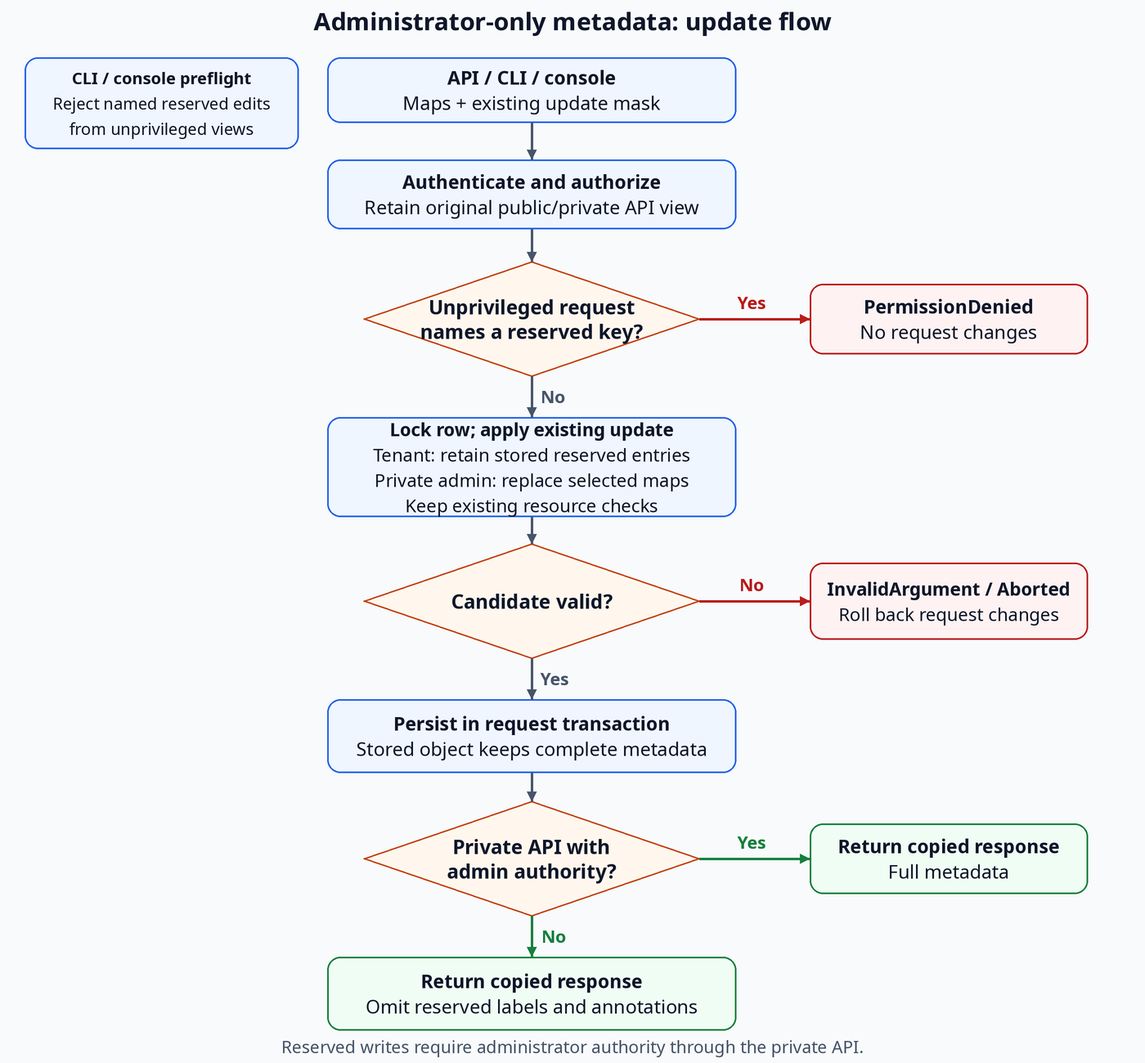
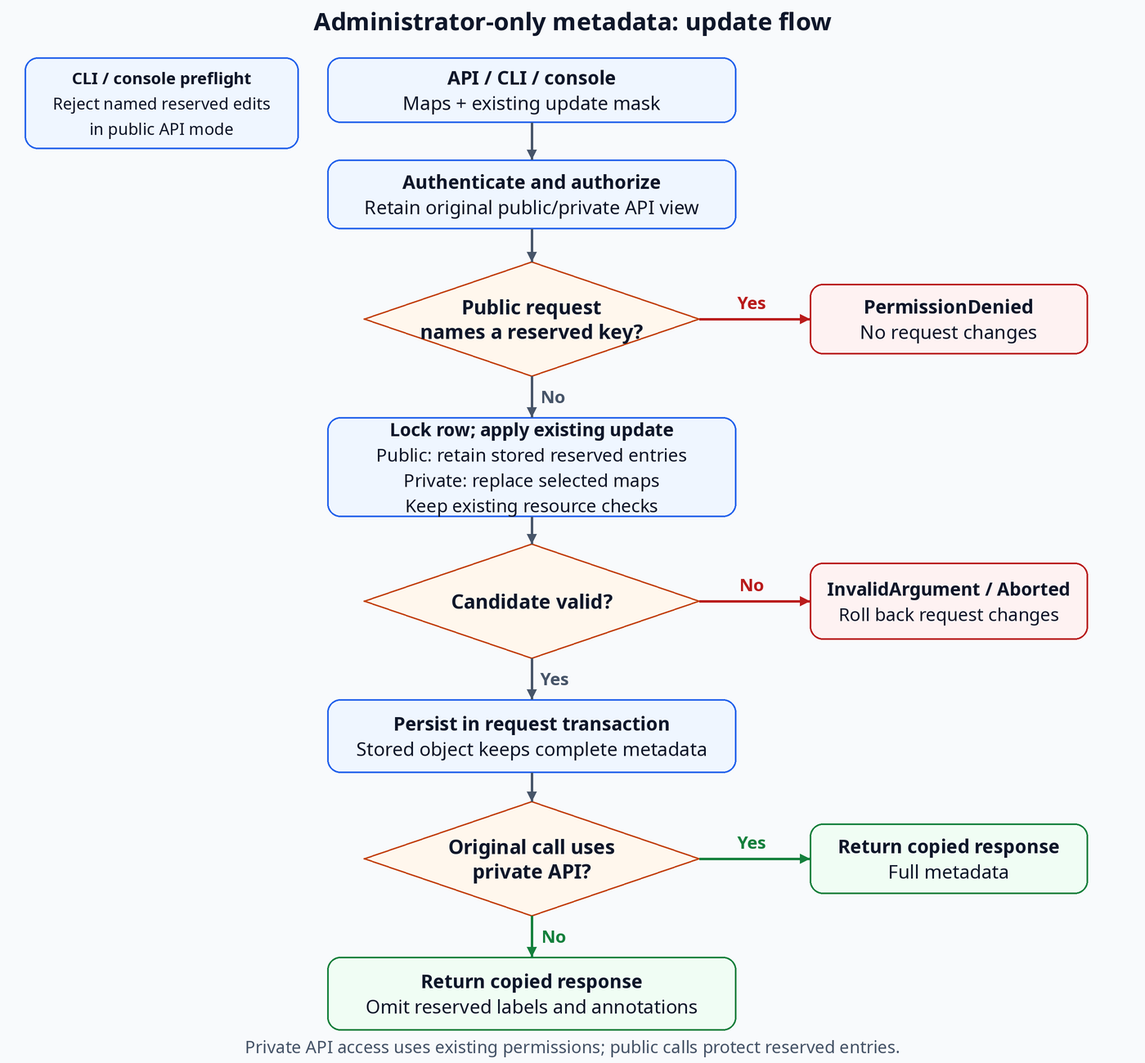
OSAC-6204: Keep authorization and private metadata behavior unchanged
Assisted-by: Codex <noreply@openai.com>

diff --git a/enhancements/OSAC-6204-support-administrator-only-labels-and-annotations/testplan.md b/enhancements/OSAC-6204-support-administrator-only-labels-and-annotations/testplan.md
@@ -19,7 +19,7 @@ The PRD uses In Scope bullets rather than FR/NFR identifiers. IS-1 through IS-5 
 | IS-4 | Ordinary metadata keeps its existing behavior | TC-IS4-01–05 | IC-1, IC-2, IC-3, IC-4, IC-5, IC-6, IC-8, IC-9 |
 | IS-5 | Document exact reserved prefix and matching behavior | TC-IS5-01–02 | IC-1, IC-10 |
 
-Under confirmed D6, tenant map omission always preserves stored reserved entries. Named forbidden CLI/console operations fail locally before any Update; supplied reserved entries and accepted explicit protected mask paths fail on the server. A whole-map request cannot reveal a removal target that a client has already discarded.
+Under confirmed D6, public map omission always preserves stored reserved entries. Named forbidden public CLI/console operations fail locally before any Update; supplied reserved entries and accepted explicit protected mask paths fail on the public server. A whole-map request cannot reveal a removal target that a client has already discarded. Private API calls retain existing complete-map behavior under existing authorization, with no new metadata role check.
 
 Request locking remains optional: `lock` omitted/false skips the version comparison; `lock=true` checks the supplied version. Reserved-key protection applies to both modes. Database row locking and transaction atomicity remain in use in either mode.
 
@@ -29,7 +29,7 @@ Retired IDs: TC-IS1-07 and TC-IS3-07. Existing case IDs are not reused.
 
 ## Shared fixtures and oracles
 
-Use two accounts representing Cloud Provider Admin and Cloud Infrastructure Admin with the existing platform-admin authorization, plus Tenant Admin and Tenant User accounts with their existing roles. No new persona roles or account-provisioning workflow are needed. Include a second tenant for isolation controls and the existing restricted private CSI identity. A role display string alone is not authority. Both admin personas must pass the same matrix; tenant cases run as both tenant personas where the method is authorized for ordinary use.
+Use two accounts representing Cloud Provider Admin and Cloud Infrastructure Admin with the existing platform-admin authorization, plus Tenant Admin and Tenant User accounts with their existing roles. No new persona roles or account-provisioning workflow are needed. Include a second tenant for isolation controls and the existing restricted private CSI identity. Preserve existing method/object authorization for each account; metadata rules depend on the API view. Both admin personas must pass the same matrix; public tenant cases run as both tenant personas where the method is authorized for ordinary use.
 
 Seed valid stored dependencies for every object type. Use ordinary keys such as `example.org/environment` and reserved keys such as `admin.osac.openshift.io/tracking-id` in both maps, with unique marker values to detect disclosure. Include empty strings, multiple entries, and objects without protected entries. Do not rely on external provider provisioning to test a metadata edit; explicitly record seeded lifecycle/readiness states and the fact that no provider provisioning boundary is exercised.
 
@@ -216,7 +216,7 @@ Both administrators can sign in to the deployed console. Valid fixtures exist fo
 - Editors display complete private maps and submit their edited replacements using existing update options, with no mandatory version checking. Untouched entries and unselected maps/fields remain intact.
 - Connect/proxy/API persistence and existing detail-page links reach the same shared editor.
 
-#### TC-IS1-08: Administrator authority comes from the evaluated OPA decision
+#### TC-IS1-08: Existing authorization and original API view define behavior
 
 | Interface Change | Priority | Automation |
 |---|---|---|
@@ -226,20 +226,20 @@ Both administrators can sign in to the deployed console. Valid fixtures exist fo
 
 ##### Preconditions
 
-Accounts represent both administrators, Tenant Admin, Tenant User, and the restricted private CSI client. OPA decision fixtures include true, false, and absent is_admin.
+Accounts represent both administrators, Tenant Admin, Tenant User, and the restricted private CSI client. Record their existing allowed methods, object scope, and tenant visibility as the baseline.
 
 ##### Steps
 
-1. Evaluate the supported persona/group mapping and copy the explicit is_admin result into Subject.
-2. Exercise private reserved reads/writes for each account. For both administrator accounts, repeat a public read and submit reserved Create/Update input where those public methods exist.
-3. Give a fixture broad tenant visibility without administrator authority and repeat the private metadata read.
+1. Exercise allowed and disallowed private methods for each account and compare authorization with the baseline.
+2. For both administrator accounts, read and edit reserved entries through allowed private methods; repeat reads and reserved Create/Update input through corresponding public methods where they exist.
+3. Verify the original public view survives in-process delegation to private handlers. Read a Volume through an allowed private CSI method as a control.
 
 ##### Expected Results
 
-- Both supported administrators receive the same reviewed reserved-metadata authority. False or missing is_admin defaults to no authority.
-- Tenant roles and CSI universal-tenant visibility do not become administrator authority. Public administrator calls still receive the tenant metadata projection.
-- Public reserved Create/Update requests from either administrator return PermissionDenied and apply no changes or side effects. Administrator authority never bypasses the public API's reserved-key restriction.
-- Private RPC access continues to require the existing method/object authorization independently of metadata projection.
+- Existing method/object and tenant/project authorization is unchanged for every account. Both administrator personas keep the same existing private access; tenant identities gain no private methods.
+- Authorized private calls retain complete metadata, including allowed CSI Volume reads. No new is_admin decision or Subject field is required.
+- Public calls return the same filtered view for every caller, including administrators, even when a public handler delegates to private code.
+- Public reserved Create/Update requests from either administrator return PermissionDenied and apply no changes or side effects. Private method access never bypasses a public call's reserved-key restriction.
 
 #### TC-IS1-09: Optional version checks retain existing update semantics
 
@@ -269,7 +269,7 @@ An administrator reads a complete map at version v; a second authorized update c
 
 ### IS-2: Tenant visibility
 
-#### TC-IS2-01: Every external object response omits reserved entries
+#### TC-IS2-01: Every public object response omits reserved entries
 
 | Interface Change | Priority | Automation |
 |---|---|---|
@@ -279,19 +279,19 @@ An administrator reads a complete map at version v; a second authorized update c
 
 ##### Preconditions
 
-For each public metadata-bearing type, seed both maps with ordinary and reserved entries. Also seed nested Metadata and unprivileged private-service fixtures.
+For each public metadata-bearing type, seed both maps with ordinary and reserved entries. Include nested Metadata and authorized private-service controls.
 
 ##### Steps
 
 1. Get and List as both tenant personas; perform allowed ordinary Create/Update that returns an object containing stored reserved metadata.
 2. Repeat public reads with administrator credentials and inspect nested response objects.
-3. Compare external responses against the authorized private source and inspect whether projection mutated that source.
+3. Compare public responses with authorized private responses and the stored source; inspect whether projection mutated that source.
 
 ##### Expected Results
 
-- No reserved key or value appears in public or unprivileged private object responses; ordinary entries, authorized resource scope, and versions retain their established shape.
+- No reserved key or value appears in public object responses; ordinary entries, authorized resource scope, and versions retain their established shape.
 - Administrators using public RPCs get the same projection. Nested actual Metadata messages are projected recursively, while unrelated payload maps are unchanged.
-- Projection uses detached responses; stored and in-process administrator objects retain their full maps.
+- Projection uses detached responses; private responses, stored objects, and in-process private objects retain their full maps under existing authorization.
 
 #### TC-IS2-02: Event payload and filter projection preserve privacy
 
@@ -303,17 +303,17 @@ For each public metadata-bearing type, seed both maps with ordinary and reserved
 
 ##### Preconditions
 
-Real Kafka-backed EventsServer coverage is available. Tenant watches are ready before publication; seed an object with both map kinds and register an admin private watcher.
+Real Kafka-backed EventsServer coverage is available. Public watches are ready before publication; seed an object with both map kinds and register a watcher with existing private Watch permission.
 
 ##### Steps
 
 1. Publish a create/update event containing reserved entries, nested Metadata, and a known ordinary filter match.
-2. Consume through public tenant and private administrator watches; compare event identifiers, timestamps, and visible entries.
+2. Consume through public tenant, public administrator, and authorized private watches; compare event identifiers, timestamps, and visible entries.
 3. Change a reserved value without changing ordinary matching entries and repeat; allow at most 30 seconds after publication in the test harness.
 
 ##### Expected Results
 
-- Tenant events omit reserved entries before the tenant event filter runs; authorized private administrator events retain them.
+- All public events omit reserved entries before the public event filter runs; authorized private events retain them under existing permissions.
 - Ordinary matching behavior, identifiers, and timestamps remain unchanged. No stored or publisher object is mutated by projection.
 - The 30-second bound is a bounded test wait, not a new product delivery SLA; publication/subscription readiness failures are diagnosed separately.
 
@@ -364,7 +364,7 @@ Tenant Admin and Tenant User sessions have access to objects with unique reserve
 - Reserved keys and marker values are absent from tenant API/Connect response bodies, UI display/search results, and CLI structured/human output.
 - Ordinary search and display behavior remains consistent with the existing authorized public view. Hiding a field in the frontend alone does not satisfy this case.
 
-#### TC-IS2-05: Restricted private clients remain unprivileged metadata readers
+#### TC-IS2-05: Private clients keep existing metadata access and method restrictions
 
 | Interface Change | Priority | Automation |
 |---|---|---|
@@ -374,18 +374,18 @@ Tenant Admin and Tenant User sessions have access to objects with unique reserve
 
 ##### Preconditions
 
-The existing CSI identity has its documented restricted method access and universal tenant visibility; fixtures span two tenants.
+The existing CSI identity has universal tenant visibility and private Volume Create/Get/Delete/List permission, without Update. Seed valid Volume dependencies and fixtures across two tenants.
 
 ##### Steps
 
-1. Read an object using a private method allowed to the CSI identity.
-2. Attempt a reserved metadata write and a private method outside its existing allowlist.
-3. Compare the same allowed read using an authorized administrator.
+1. Get/List Volumes containing reserved entries through the CSI identity's allowed private methods.
+2. Create a valid Volume with reserved entries using its existing private Create permission; attempt Update and another method outside its allowlist.
+3. Compare the same allowed reads using an authorized administrator and compare stored maps after rejected methods.
 
 ##### Expected Results
 
-- CSI reads omit reserved maps despite cross-tenant visibility. Reserved writes and disallowed methods do not succeed.
-- The administrator private view retains reserved values. No method allowlist or tenant scope is widened by this feature.
+- CSI private Get/List responses retain complete maps, including reserved values. Valid private Create retains existing metadata behavior; it is not rejected by a new metadata permission check.
+- Update and other disallowed methods remain denied without changing stored objects. Administrator private reads retain the same reserved values. No method allowlist or tenant scope is widened by this feature.
 
 #### TC-IS2-06: Ephemeral review Metadata uses the same boundary without persistent CRUD
 
@@ -403,12 +403,12 @@ SelfSubjectAccessReview is an ephemeral message carrying Metadata, not one of th
 
 1. Submit a review request with ordinary metadata through each supported external view.
 2. Exercise response projection with a review response fixture containing reserved entries, including a nested review message.
-3. Submit a review carrying a reserved map entry from an unprivileged view.
+3. Submit a review carrying a reserved map entry through each supported public/private view under existing method permissions.
 
 ##### Expected Results
 
-- Ordinary review behavior remains unchanged and tenant outputs omit reserved entries wherever Metadata occurs.
-- Unprivileged reserved input is rejected before review processing. The test does not invent Get/List/Update or persistence for the ephemeral review.
+- Ordinary review behavior remains unchanged. Public outputs omit reserved entries wherever Metadata occurs; allowed private review calls retain existing complete-map behavior.
+- Public reserved input is rejected before review processing. Private method authorization remains unchanged. The test does not invent Get/List/Update or persistence for the ephemeral review.
 
 ### IS-3: Atomic rejection of tenant mutations
 
@@ -493,7 +493,7 @@ Tenant clients see only ordinary maps. Prepare present/absent reserved-key fixtu
 
 ##### Preconditions
 
-Existing clients use ordinary update_mask; capture complete private snapshots for otherwise identical objects with a reserved key present and absent.
+Existing clients call public Update with ordinary update_mask; capture complete private snapshots for otherwise identical objects with a reserved key present and absent.
 
 ##### Steps
 
@@ -742,12 +742,12 @@ Guide examples, CLI help, and API schema are available for the proposed implemen
 
 1. Review both admin journeys and both tenant expectations across API, CLI, and console.
 2. Check native gRPC, existing REST PATCH/query masks, and Connect examples for complete selected maps, omission-based deletion, empty maps/values, the feature-enabled server requirement, and stale versions.
-3. Check the all-resource inventory, local named-removal error, raw-input server rejection, tenant omission preservation, and older-client/server limitations.
+3. Check the all-resource inventory, local named-removal error, public raw-input rejection, public omission preservation, unchanged private behavior, and older-client/server limitations.
 
 ##### Expected Results
 
-- Guides describe identical admin actions on all persistent types and private-only types, tenant privacy, and whole-request rejection for observable forbidden input.
-- Examples use existing Update maps/masks and make locking optional: omitted/false requires no version precondition; true checks the supplied version. Administrator omission deletes while tenant omission preserves. Named CLI/console removal is checked before sending a map, and discarded targets cannot be inferred by the server.
+- Guides describe identical admin actions on all persistent types and private-only types, public privacy, and whole-request rejection for observable forbidden public input. Existing method/object authorization is unchanged; permitted private clients retain complete metadata with no new metadata role check.
+- Examples use existing Update maps/masks and make locking optional: omitted/false requires no version precondition; true checks the supplied version. Private omission deletes while public omission preserves. Named public CLI/console removal is checked before sending a map, and discarded targets cannot be inferred by the server.
 - Guides state that privacy requires a server implementing this feature; older servers keep their existing visibility rules. Support guidance documents older-client limitations, excludes in-place upgrades, and logs no protected values.
 
 ## Coverage summary and remaining work

diff --git a/enhancements/OSAC-6204-support-administrator-only-labels-and-annotations/design.md b/enhancements/OSAC-6204-support-administrator-only-labels-and-annotations/design.md
@@ -42,7 +42,7 @@ CLI removals lose their target after local map editing, so named forbidden opera
 
 Both Cloud Provider Admin and Cloud Infrastructure Admin manage reserved metadata on all covered resources through the private API, CLI, and console. Tenant views omit it. [Locked: D3, D5]
 
-Use existing whole-map updates: authorized private administrators replace selected maps; every tenant update retains the stored reserved portion. Reject supplied forbidden keys atomically, and reject named tenant CLI/console operations before sending Update. [Locked: D4, D6]
+Use existing whole-map updates: private API calls replace selected maps; public API updates retain the stored reserved portion. Reject supplied forbidden keys atomically in public requests, and reject named public CLI/console operations before sending Update. [Locked: D4, D6]
 
 ### Workflow Description
 
@@ -67,7 +67,7 @@ IS-1 through IS-5 identify the PRD's five In Scope bullets. These interface IDs 
 | IC-4 | Reject forbidden server input and named client operations atomically | IS-3, IS-4 |
 | IC-5 | Filter object responses, nested Metadata, and events | IS-2, IS-4 |
 | IC-6 | Protect filters and matching counts | IS-2, IS-4 |
-| IC-7 | Carry existing administrator authority; retain tenant/client permissions | IS-1, IS-2, IS-3 |
+| IC-7 | Preserve existing authorization; apply protection by API view | IS-1, IS-2, IS-3 |
 | IC-8 | Update CLI validation, map submission, and output | IS-1, IS-2, IS-3, IS-4 |
 | IC-9 | Add the console editor and protect tenant display/search | IS-1, IS-2, IS-3, IS-4 |
 | IC-10 | Document prefix, operations, errors, and examples | IS-5 |
@@ -96,23 +96,22 @@ Each has private Update; service enablement still applies. Hub, NetworkClass, St
 
 #### Authorization and write validation
 
-Carry OPA's evaluated `is_admin` boolean in AuthzDecision and Subject, defaulting to false. Preserve the original public/private method when public handlers delegate to private code. [Codebase: fulfillment-service/internal/auth/authorization_evaluator.go; fulfillment-service/internal/auth/auth_subject.go]
+Keep existing method, object, tenant, and project authorization unchanged. No OPA, AuthzDecision, Subject, or administrator-flag changes are needed. Preserve the original public/private API view when public handlers delegate to private code.
 
 The public API hides reserved labels and annotations and rejects their explicit use in Create/Update for every caller, including administrators. Reserved edits require the private API. Public whole-map updates preserve stored reserved entries.
 
 | Original API view | Reserved metadata |
 |---|---|
-| Private, authorized administrator | Read, create, edit, remove |
+| Private, any caller with existing method/object permission | Complete maps; existing read/write behavior |
 | Public, any caller, including administrators | Hidden; explicit writes denied |
-| Private, non-admin | Hidden; explicit writes denied |
 
-Add an interceptor after authorization and before dependency creation/reference processing. For public Create/Update requests and non-admin private Create/Update requests, reject every supplied reserved entry or accepted explicit reserved-key mask path with `PermissionDenied`, including unchanged values, absent targets, nested Metadata, and keys outside the mask. Apply no ordinary subset. Authorized private Create uses the existing maps and resource validation. [Locked: D4]
+Add an interceptor after authorization and before dependency creation/reference processing. For public Create/Update requests, reject every supplied reserved entry or accepted explicit reserved-key mask path with `PermissionDenied`, including unchanged values, absent targets, nested Metadata, and keys outside the mask. Apply no ordinary subset. Private Create/Update retains existing map handling, authorization, and resource validation. [Locked: D4]
 
 #### Whole-map Update
 
 Use the existing Update request. Clients select `metadata.labels`, `metadata.annotations`, or both and send complete replacement maps.
 
-| Selected-map input | Public caller / private non-admin | Authorized private administrator |
+| Selected-map input | Public API | Private API |
 |---|---|---|
 | Ordinary entries | Replace ordinary portion; retain stored reserved portion | Replace the map, deleting omitted entries |
 | Reserved entry supplied | Reject the entire request, even outside the mask | Store the supplied entries |
@@ -125,7 +124,7 @@ Change GenericServer's update path:
 
 1. Read the stored object under the existing database row lock.
 2. Apply the existing mask or unmasked replacement to a detached candidate.
-3. For public requests and non-admin private requests, replace the candidate's reserved portion in both maps with the locked stored portion. Preserve ordinary replacement/deletion behavior.
+3. For public requests, replace the candidate's reserved portion in both maps with the locked stored portion. Preserve ordinary replacement/deletion behavior. Private requests keep existing replacement semantics.
 4. Validate and save using existing identity, ownership, and resource rules. Restored stored entries are trusted data; do not reject them as caller input.
 
 In TxInterceptor, call `tx.ReportError(&err)` before transaction End so returned handler errors roll back earlier writes. [Codebase: fulfillment-service/internal/servers/generic_server.go; fulfillment-service/internal/database/database_tx_interceptor.go]
@@ -143,9 +142,9 @@ This replaces labels under the map rules; an empty map clears the permitted port
 
 #### Response, event, and query privacy
 
-Filter detached unprivileged responses recursively through actual Metadata messages, including Get/List, Create/Update responses, nested objects, and streams. Leave unrelated maps and internal/stored objects intact. Events.Watch must project metadata before evaluating tenant predicates. [Codebase: fulfillment-service/internal/servers/events_server.go]
+Filter detached public responses recursively through actual Metadata messages, including Get/List, Create/Update responses, nested objects, and streams. Leave private responses, unrelated maps, and internal/stored objects intact. Public Events.Watch must project metadata before evaluating public predicates. [Codebase: fulfillment-service/internal/servers/events_server.go]
 
-Inspect parsed, type-checked CEL filters. Explicit reserved-key references, membership checks, and mixed predicates return `PermissionDenied` before item/count SQL, independent of key existence. Evaluate supported whole-map predicates against JSONB with reserved entries excluded; keep ordinary literal-key indexed SQL and existing unsupported-operator errors. Authorized private administrators query full maps. [Codebase: fulfillment-service/internal/database/dao/filter_translator.go]
+For public queries, inspect parsed, type-checked CEL filters. Explicit reserved-key references, membership checks, and mixed predicates return `PermissionDenied` before item/count SQL, independent of key existence. Evaluate supported whole-map predicates against JSONB with reserved entries excluded; keep ordinary literal-key indexed SQL and existing unsupported-operator errors. Private queries keep existing access to complete maps. [Codebase: fulfillment-service/internal/database/dao/filter_translator.go]
 
 #### Private networking Updates
 
@@ -155,14 +154,14 @@ Retain supported ordinary/mixed edits, specification/status/ownership validation
 
 #### CLI and console
 
-- **CLI:** retain `label`/`annotate`, `key=value`, and `key-`. Validate all named operations before editing the fetched map; a forbidden set/removal, including an absent key in a mixed command, sends no Update and exits nonzero. Submit allowed changes as complete selected maps using existing update options. Private mode selects the API; server authorization decides access.
-- **Console:** add `/admin/metadata`, a type/object selector, and shared map editor for all 35 private services. Link existing detail pages; keep private-only types in administrator navigation. Use the `admins` group claim for `isPlatformAdmin` and forward the user's token. Tenant pages use filtered maps for display/search and validate named operations. Editors retain unsaved changes after errors. [Locked: D5, D6]
+- **CLI:** retain `label`/`annotate`, `key=value`, and `key-`. In public mode, validate all named operations before editing the fetched map; a forbidden set/removal, including an absent key in a mixed command, sends no Update and exits nonzero. Submit allowed changes as complete selected maps using existing update options. Private mode selects the API; existing server authorization decides access.
+- **Console:** add `/admin/metadata`, a type/object selector, and shared map editor for all 35 private services. Link existing detail pages and reuse existing administrator navigation. Forward the user's token; existing private method authorization controls access, with no new metadata permission check. Public pages use filtered maps for display/search and validate named operations. Editors retain unsaved changes after errors. [Locked: D5, D6]
 
 Refresh UI types for the existing API inventory and update API reference, CLI help, administrator/tenant guides, and component testing maps. Document the reserved namespace, subdomain matching, and server support requirement. Reuse metadata columns/indexes, versions, and events; no API field, database migration, CRD/controller/AAP change, or Helm setting is required.
 
 ### Security Considerations
 
-Enforce protection on the server, independently of UI roles, headers, or reflection credentials. Broad tenant visibility is not administrator authority: the restricted Container Storage Interface (CSI) identity's private Volume reads must also omit reserved entries. [Codebase: fulfillment-service/internal/auth/policies/authz.rego]
+Enforce public API protection on the server, independently of UI roles, headers, or reflection credentials. Keep existing private permissions: the Container Storage Interface (CSI) identity's allowed Volume Create/Get/Delete/List methods retain complete metadata; Update remains disallowed. No method allowlist or tenant scope is widened. [Codebase: fulfillment-service/internal/auth/policies/authz.rego]
 
 ### Failure Handling and Recovery
 
@@ -179,7 +178,7 @@ Tenant map omission succeeds for ordinary edits and preserves reserved entries. 
 
 ### RBAC / Tenancy
 
-Reuse existing platform-admin, method/object, tenant/project, and trusted controller permissions. Both admin personas have identical coverage; restricted clients remain non-admin. Retain tenant and owner-reference isolation annotations. No new roles or resources are added. [Locked: D5]
+Reuse existing method/object, tenant/project, and trusted controller permissions. Both admin personas have identical coverage. Reserved-key rules depend on the original public/private API view, with no additional role check. Retain tenant and owner-reference isolation annotations. No new roles or resources are added. [Locked: D5]
 
 ### Observability and Monitoring
 
@@ -193,7 +192,7 @@ Use existing RPC status metrics and logs; add no metrics or events. Log methods 
 | Replacement loses entries | Retain untouched client entries and restore public callers' reserved entries from the locked row. |
 | Client discards forbidden removal intent | Validate named operations before map editing. |
 | Whole-map queries add cost | Keep literal-key indexes and inspect query plans. |
-| UI authority or networking behavior diverges | Verify token/OPA mapping and existing networking validators. |
+| API view or networking behavior diverges | Preserve the original API view through delegation and retain existing networking validators. |
 
 API/authentication, networking, and console maintainers review their respective boundaries.
 
@@ -228,7 +227,7 @@ The [test plan](testplan.md) defines 28 cases covering five requirements and 10 
 
 ### Unit Tests
 
-Prefix/validation; raw-input and named-operation rejection; map selection/preservation; version/rollback; nested projection; filter privacy; administrator authority; CLI/console request and error handling.
+Prefix/validation; public raw-input and named-operation rejection; map selection/preservation; version/rollback; public nested projection and filter privacy; unchanged authorization/private behavior; CLI/console request and error handling.
 
 ### Integration Tests
 
@@ -252,7 +251,7 @@ Privacy requires a server implementing this feature; older servers retain their 
 
 ## Support Procedures
 
-Inspect RPC status/logs and authorized private Get without logging values. Correct permissions/input or reload stale maps before retrying. Revoke admin membership to stop an account's reserved writes; server privacy and running workloads remain active.
+Inspect RPC status/logs and authorized private Get without logging values. Correct permissions/input or reload stale maps before retrying. Use existing authorization controls to revoke an account's private method access; public privacy and running workloads remain active.
 
 ## Infrastructure Needed
 
@@ -263,6 +262,6 @@ Reuse Kind, PostgreSQL, Keycloak, and Kafka harnesses. Add the G-1 browser runne
 ## Provenance
 
 Authored: respond @ design 0.11.5 - 1c6e8de, workspace main @ f0a8211
-Phases: draft, revise, revise, revise, revise, revise, revise, revise, revise, revise, respond, respond, respond, respond, respond
+Phases: draft, revise, revise, revise, revise, revise, revise, revise, revise, revise, respond, respond, respond, respond, respond, respond
 
-<!-- ai-workflow-provenance:{"schema_version":1,"provenance_kind":"session","workflow":"design","workflow_version":"0.11.5","ai_workflows":"1c6e8de","source_repo":"f0a8211","source_repo_branch":"main","commits_behind_main":0,"commits_ahead_main":0,"main_ref":"main","phases":["draft","revise","revise","revise","revise","revise","revise","revise","revise","revise","respond","respond","respond","respond","respond"],"authoring_modes":["skill"],"context_changed":false,"origin_untracked":false} -->
+<!-- ai-workflow-provenance:{"schema_version":1,"provenance_kind":"session","workflow":"design","workflow_version":"0.11.5","ai_workflows":"1c6e8de","source_repo":"f0a8211","source_repo_branch":"main","commits_behind_main":0,"commits_ahead_main":0,"main_ref":"main","phases":["draft","revise","revise","revise","revise","revise","revise","revise","revise","revise","respond","respond","respond","respond","respond","respond"],"authoring_modes":["skill"],"context_changed":false,"origin_untracked":false} -->
